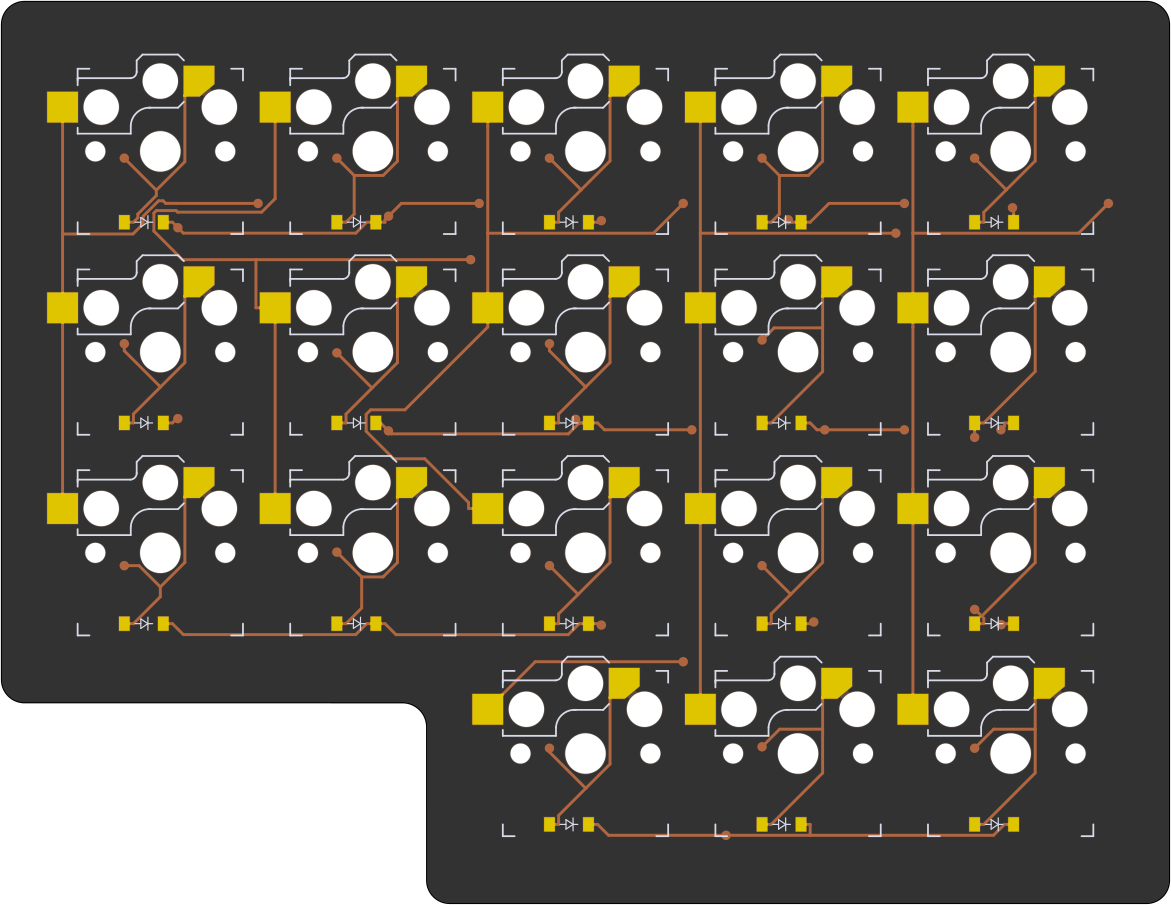
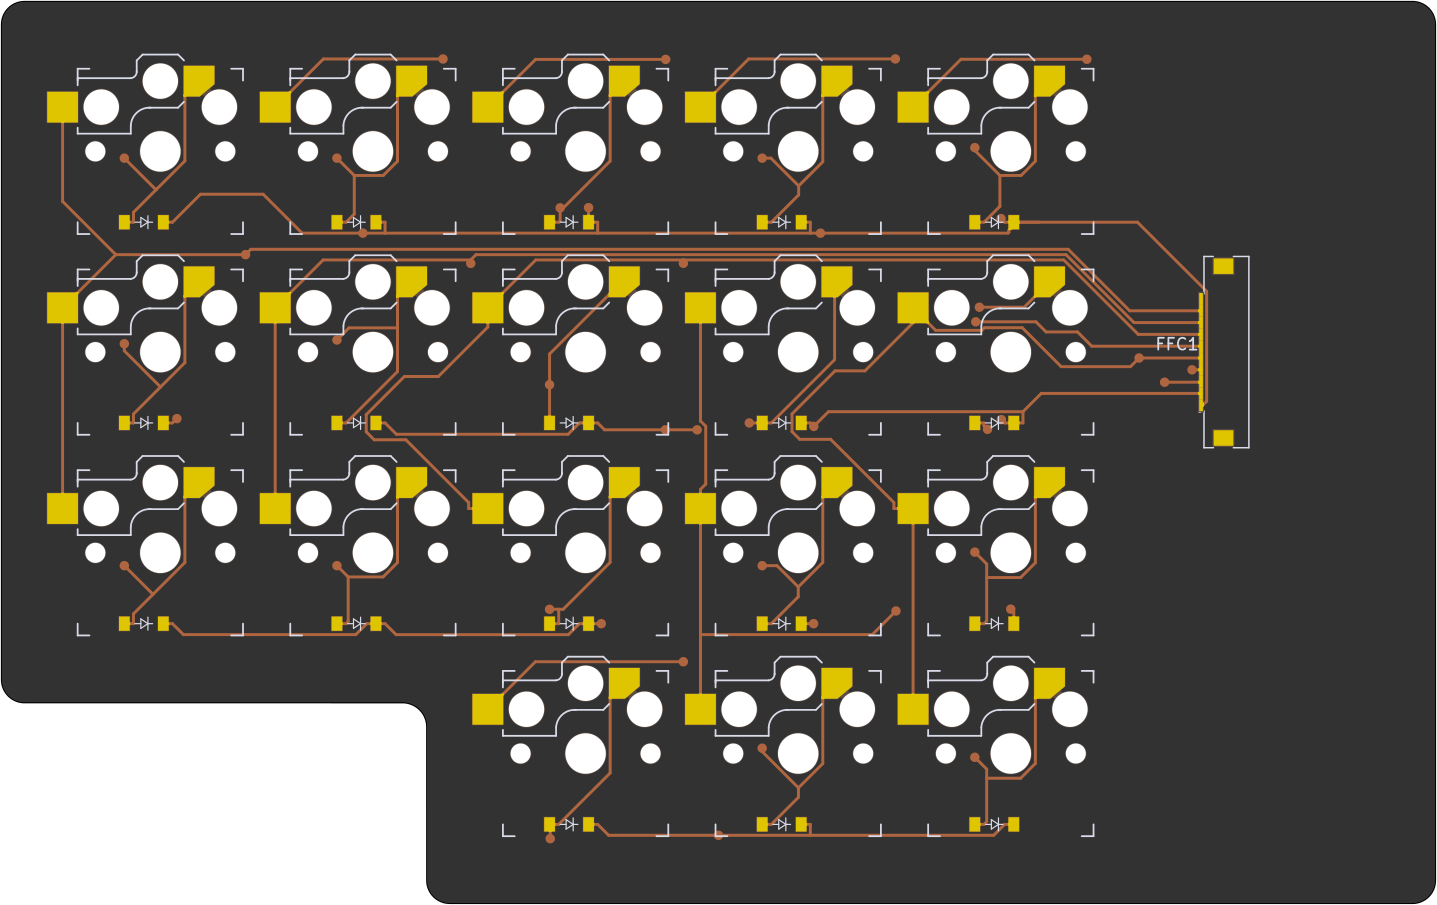
Adds a FFC 10 pin connector to the wing
Based on the kicad module found at SnapEDA

diff --git a/input/footprints/ffc_connector.js b/input/footprints/ffc_connector.js
@@ -1,0 +1,64 @@
+
+module.exports = {
+  params: {
+    designator: 'FFC',
+    P0: {type: 'net', value: 'P0'},
+    P1: {type: 'net', value: 'P1'},
+    P2: {type: 'net', value: 'P2'},
+    P3: {type: 'net', value: 'P3'},
+    P4: {type: 'net', value: 'P4'},
+    P5: {type: 'net', value: 'P5'},
+    P6: {type: 'net', value: 'P6'},
+    P7: {type: 'net', value: 'P7'},
+    P8: {type: 'net', value: 'P8'},
+    P9: {type: 'net', value: 'P9'}
+  },
+  body: p => {
+    const footprint = `
+      (module 686110183522 (layer F.Cu) (tedit 658D0856)
+        ${p.at /* parametric position */}
+        (attr virtual)
+        
+        (fp_text reference "${p.ref}" (at 0.665 -3.925 0) (layer F.SilkS)
+          (effects (font (size 1.0 1.0) (thickness 0.15)))
+        )
+        (fp_text value 686110183522 (at 5.17 3.435 0) (layer F.Fab)
+          (effects (font (size 1.0 1.0) (thickness 0.15)))
+        )
+        (pad Z1 smd rect (at -7.275 0.0) (size 1.65 1.3) (layers F.Cu F.Mask F.Paste) (solder_mask_margin 0.102))
+        (pad Z2 smd rect (at 7.275 0.0) (size 1.65 1.3) (layers F.Cu F.Mask F.Paste) (solder_mask_margin 0.102))
+        (pad 1 smd rect (at -4.5 -1.9 90.0) (size 1.0 0.3) (layers F.Cu F.Mask F.Paste) (solder_mask_margin 0.102) ${p.P0.str})
+        (pad 2 smd rect (at -3.5 -1.9 90.0) (size 1.0 0.3) (layers F.Cu F.Mask F.Paste) (solder_mask_margin 0.102) ${p.P1.str})
+        (pad 3 smd rect (at -2.5 -1.9 90.0) (size 1.0 0.3) (layers F.Cu F.Mask F.Paste) (solder_mask_margin 0.102) ${p.P2.str})
+        (pad 4 smd rect (at -1.5 -1.9 90.0) (size 1.0 0.3) (layers F.Cu F.Mask F.Paste) (solder_mask_margin 0.102) ${p.P3.str})
+        (pad 5 smd rect (at -0.5 -1.9 90.0) (size 1.0 0.3) (layers F.Cu F.Mask F.Paste) (solder_mask_margin 0.102) ${p.P4.str})
+        (pad 6 smd rect (at 0.5 -1.9 90.0) (size 1.0 0.3) (layers F.Cu F.Mask F.Paste) (solder_mask_margin 0.102) ${p.P5.str})
+        (pad 7 smd rect (at 1.5 -1.9 90.0) (size 1.0 0.3) (layers F.Cu F.Mask F.Paste) (solder_mask_margin 0.102) ${p.P6.str})
+        (pad 8 smd rect (at 2.5 -1.9 90.0) (size 1.0 0.3) (layers F.Cu F.Mask F.Paste) (solder_mask_margin 0.102) ${p.P7.str})
+        (pad 9 smd rect (at 3.5 -1.9 90.0) (size 1.0 0.3) (layers F.Cu F.Mask F.Paste) (solder_mask_margin 0.102) ${p.P8.str})
+        (pad 10 smd rect (at 4.5 -1.9 90.0) (size 1.0 0.3) (layers F.Cu F.Mask F.Paste) (solder_mask_margin 0.102) ${p.P9.str})
+        (fp_line (start -8.1 -1.65) (end 8.1 -1.65) (layer F.Fab) (width 0.127))
+        (fp_line (start 8.1 -1.65) (end 8.1 2.15) (layer F.Fab) (width 0.127))
+        (fp_line (start 8.1 2.15) (end -8.1 2.15) (layer F.Fab) (width 0.127))
+        (fp_line (start -8.1 2.15) (end -8.1 -1.65) (layer F.Fab) (width 0.127))
+        (fp_line (start -8.1 0.84) (end -8.1 2.15) (layer F.SilkS) (width 0.127))
+        (fp_line (start -8.1 2.15) (end 8.1 2.15) (layer F.SilkS) (width 0.127))
+        (fp_line (start 8.1 2.15) (end 8.1 0.84) (layer F.SilkS) (width 0.127))
+        (fp_line (start -4.98 -1.65) (end -8.1 -1.65) (layer F.SilkS) (width 0.127))
+        (fp_line (start -8.1 -1.65) (end -8.1 -0.85) (layer F.SilkS) (width 0.127))
+        (fp_line (start 4.92 -1.65) (end 8.1 -1.65) (layer F.SilkS) (width 0.127))
+        (fp_line (start 8.1 -1.65) (end 8.1 -0.87) (layer F.SilkS) (width 0.127))
+        (fp_circle (center -5.0 -2.0) (end -4.9 -2.0) (layer F.SilkS) (width 0.127))
+        (fp_poly
+          (pts
+            (xy -8.3 -2.5)
+            (xy 8.3 -2.5)
+            (xy 8.3 2.4)
+            (xy -8.3 2.4)
+          ) (layer F.CrtYd) (width 0.127)
+        )
+      )
+      `;
+    return footprint;
+  }
+}

diff --git a/input/footprints/ffc_connector/how-to-import.htm b/input/footprints/ffc_connector/how-to-import.htm
@@ -1,0 +1,1 @@
+<!DOCTYPE HTML><html lang="en-US"> <head> <meta charset="UTF-8"> <meta http-equiv="refresh" content="0; url=https://www.snapeda.com/about/import/#"> <script type="text/javascript">window.location.href="https://www.snapeda.com/about/import/#" </script> <title>Page Redirection</title> </head> <body> If you are not redirected automatically, follow this <a href="https://www.snapeda.com/about/import/#">link to the import guide</a>. </body></html>
